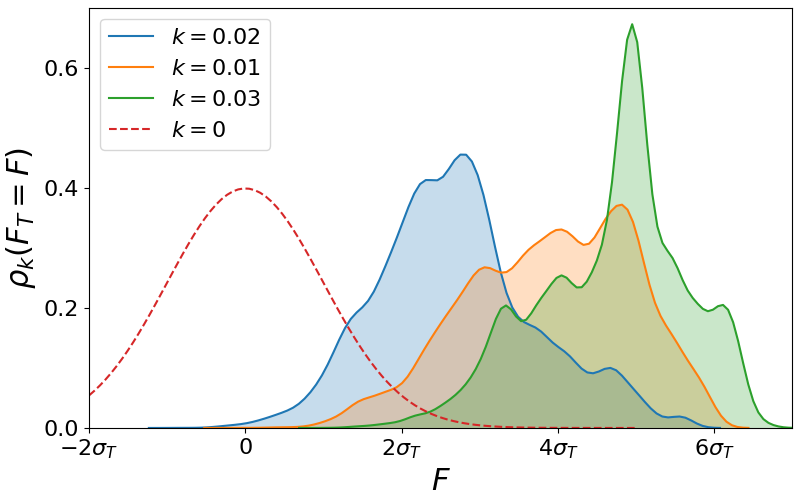
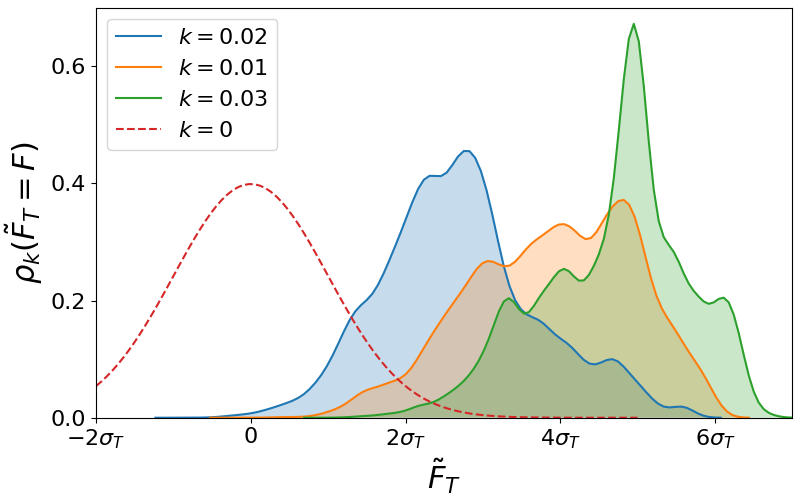
Fix x label for figure IS_GKTL #4

diff --git a/draft_p2.tex b/draft_p2.tex
@@ -819,8 +819,7 @@ More details concerning the implementation of the algorithm and the correspondin
 	\centering
 	\includegraphics[width=0.7\linewidth]{IS_GKTL/IS_GKTL}
 	\caption{\label{fig:IS_GKTL} Rare-event sampling of the (zero-mean) time-averaged drag $\tilde F_T = F_T - \overline{F_T}$ with $T=10~\tau_c$; $\tau_c$ is the correlation time of the instantaneous drag. The shaded \ac{pdf}s are estimated from the biased ensemble resulting from the \ac{gktl} algorithm applied to $16384$ trajectories of duration $T_a=T$ with the cloning period $\tau=\tau_c/2$.
-	The dashed line denotes the unbiased \ac{pdf} of $\tilde F_T$, \textit{i.e.} from direct sampling or with $k=0$ (no bias) in the \ac{gktl} algorithm.
-\EL{$F_T-\overline{F_T}$ in the figure! \#4}}
+	The dashed line denotes the unbiased \ac{pdf} of $\tilde F_T$, \textit{i.e.} from direct sampling or with $k=0$ (no bias) in the \ac{gktl} algorithm.}
 \end{figure}
 
 The application of the \ac{gktl} algorithm is now studied for the flow dynamics introduced in section~\ref{sec:test_flow} with the aim of sampling trajectories with extreme fluctuations of the \textit{time-averaged} drag.

diff --git a/figures/IS_GKTL/IS_GKTL.py b/figures/IS_GKTL/IS_GKTL.py
@@ -38,8 +38,8 @@ ax.set_yticks(ax.get_yticks()[::2]) # Plot only half of ticks
 ax.set_xticklabels(['$-2\\sigma_T$','$0$','$2\\sigma_T$','$4\\sigma_T$','$6\\sigma_T$'])
 ax.tick_params(axis='both', which='major', labelsize=16)
 
-ax.set_xlabel('$F$', fontsize=22)
-ax.set_ylabel('$\\rho_{k}(F_T = F)$', fontsize=22)
+ax.set_xlabel('$\\tilde{F}_T$', fontsize=22)
+ax.set_ylabel('$\\rho_{k}(\\tilde{F}_T = F)$', fontsize=22)
 ax.legend(loc='best', fontsize=16)
 
 # Prints figure
